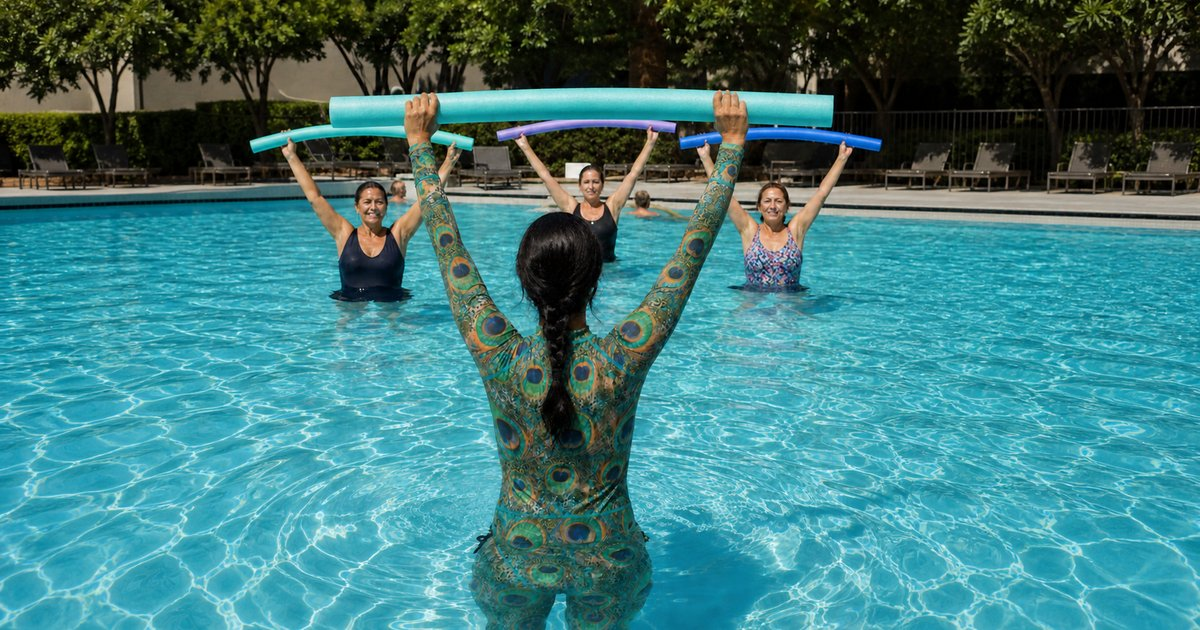
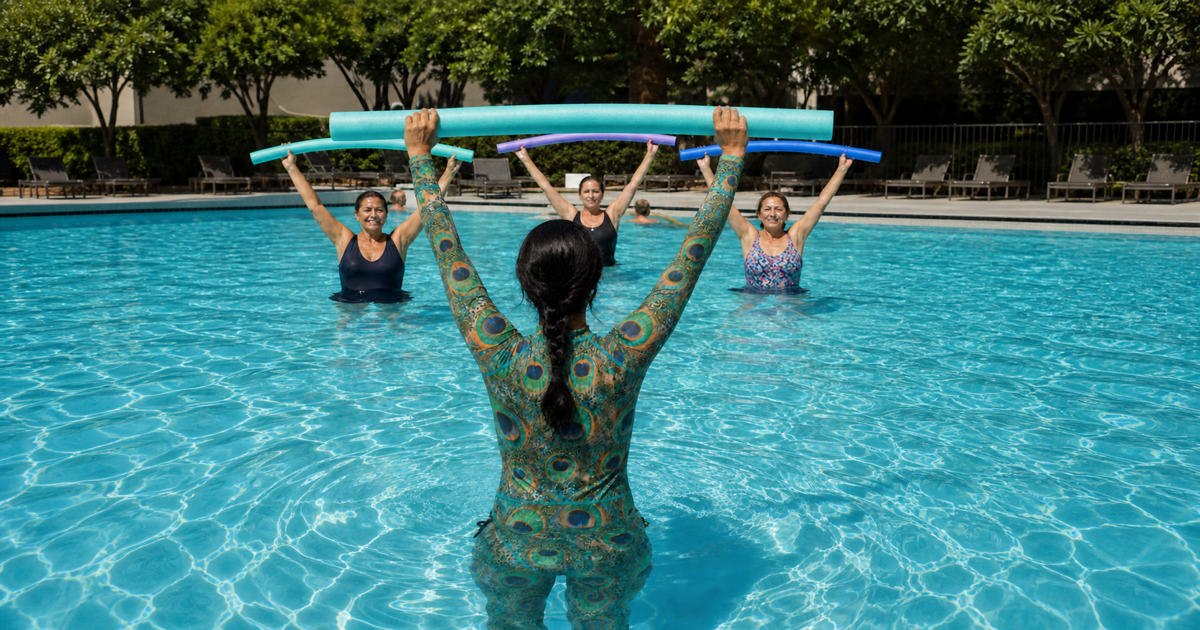
Enhance content and imagery for Aqua Yoga website
- Updated FAQ responses to clarify suitability of aqua yoga for various conditions.
- Added Open Graph metadata for improved social sharing, including titles, descriptions, and images for homepage, menopause, and seniors pages.
- Introduced new image assets for menopause and seniors initiatives to enhance visual appeal.
- Adjusted page layouts to incorporate new metadata and imagery for better user experience.

diff --git a/design_handoff_homepage/www-shared.jsx b/design_handoff_homepage/www-shared.jsx
@@ -90,7 +90,7 @@ const CONTENT = {
     individual: [
     { q: 'Do I need to know how to swim?', a: 'No. Classes are practiced in chest-depth water. You will never be asked to go underwater.' },
     { q: 'Do I need prior yoga experience?', a: 'No. Aqua yoga is an excellent entry point for anyone new to yoga.' },
-    { q: 'Is aqua yoga suitable for my condition?', a: 'Aqua yoga is specifically designed for people living with chronic pain, hypermobility, arthritis, autoimmune conditions, and menopause-related symptoms.' },
+    { q: 'Is aqua yoga suitable for my condition?', a: 'Aqua yoga is gentle enough to be practiced by people living with chronic pain, autoimmune conditions, and menopause-related symptoms — as well as older adults and anyone who finds land-based movement difficult.' },
     { q: 'Where do private sessions take place?', a: 'Sessions can take place at my pool in Hollywood, Broward County, or at your own pool.' },
     { q: 'What should I wear?', a: 'A comfortable swimsuit. Water shoes are optional but recommended.' },
     { q: 'Will I get my hair wet?', a: 'Not necessarily. Getting your hair wet is entirely optional.' },

diff --git a/src/content/homepage.ts b/src/content/homepage.ts
@@ -12,6 +12,14 @@ export interface FaqItem {
 }
 
 export const CONTENT = {
+  meta: {
+    title: 'Therapeutic Aqua Yoga for Women | Broward & North Miami',
+    description:
+      'Therapeutic aqua yoga for women navigating chronic pain, menopause and healthy aging. Group and private classes in Broward & North Miami. September 2026.',
+    canonicalUrl: 'https://www.waterwomanwellness.com',
+    ogImage: '/og-image.jpg',
+  },
+
   hero: {
     tagline:
       'Mindful water-based therapy for women ready to move with freedom again.',
@@ -118,7 +126,7 @@ export const CONTENT = {
         },
         {
           q: 'Is aqua yoga suitable for my condition?',
-          a: 'Aqua yoga is specifically designed for people living with chronic pain, hypermobility, arthritis, autoimmune conditions, and menopause-related symptoms.',
+          a: 'Aqua yoga is gentle enough to be practiced by people living with chronic pain, autoimmune conditions, and menopause-related symptoms — as well as older adults and anyone who finds land-based movement difficult.',
         },
         {
           q: 'Where do private sessions take place?',

diff --git a/src/content/seniors.ts b/src/content/seniors.ts
@@ -10,10 +10,11 @@ export interface SeniorFaq {
 
 export const SENIORS = {
   meta: {
-    title: 'Aqua Yoga for Seniors | Gentle water exercise in Broward & North Miami',
+    title: 'Aqua Yoga for Seniors | Gentle Water Exercise | Broward & Miami',
     description:
       'Gentle aqua yoga and low impact pool-based exercise for seniors. Support mobility, balance, flexibility, and strength. Serving Broward & North Miami.',
     canonicalUrl: 'https://www.waterwomanwellness.com/seniors',
+    ogImage: '/og-seniors.jpg',
   },
 
   hero: {

diff --git a/src/content/menopause.ts b/src/content/menopause.ts
@@ -14,6 +14,7 @@ export const MENOPAUSE = {
     description:
       'Gentle aqua yoga and low impact water exercise for menopausal and perimenopausal women. Build strength, flexibility and balance. Serving Broward & North Miami.',
     canonicalUrl: 'https://www.waterwomanwellness.com/menopause',
+    ogImage: '/og-menopause.jpg',
   },
 
   hero: {
